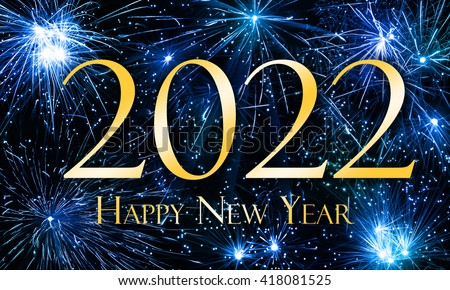
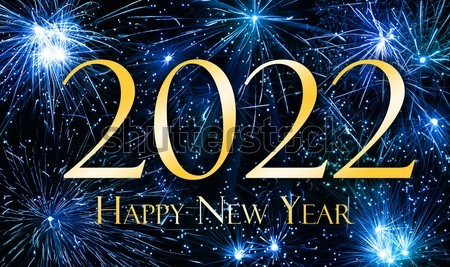
add photo

diff --git a/index.html b/index.html
@@ -16,7 +16,7 @@
     <title>Portfolio website of Ashaduzzaman (Sazid)</title>
     <link rel="stylesheet" href="/css/sazid.css">
   </head>
-  <body>
+  <body background="/img/new year (2).jpg">
     <div class="container">
         <div class="row justify-content-between my-3">
             <div class="col-sm-12 col-md-4">

diff --git a/services.html b/services.html
@@ -16,7 +16,7 @@
     <title>Portfolio website of Ashaduzzaman (Sazid)</title>
     <link rel="stylesheet" href="/css/sazid.css">
   </head>
-  <body>
+  <body background="/img/new year (1).jpg">
     <div class="container">
         <div class="row justify-content-between my-3">
             <div class="col-sm-12 col-md-4">

diff --git a/css/sazid.css b/css/sazid.css
@@ -1,9 +1,6 @@
 #profile-name span {
     color: #0b9d16;
 }
-body{
-    background-color: #f4f4f4;
-}
 #up-body{
     background-color: rgb(82, 204, 129);
     min-height: 16rem;
